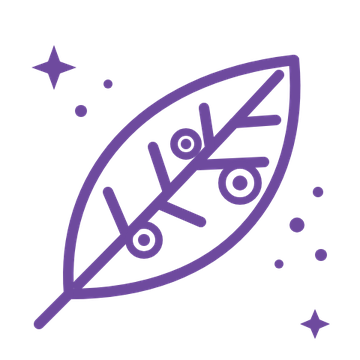
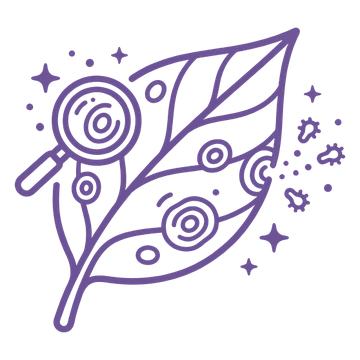
AeonScout: íconos nuevos (dibujos de Flow) para AeonScout, Plagas, Malezas y Enfermedades
Claude-Session: https://claude.ai/code/session_01AQtHHbNtiHMaVCGrhptX3t

diff --git a/tools/make_scout_from_art.py b/tools/make_scout_from_art.py
@@ -1,0 +1,52 @@
+"""
+tools/make_scout_from_art.py
+============================
+Íconos de AeonScout a partir de los dibujos a línea hechos con Flow (fondo blanco):
+assets/src/flow/{aeonscout,plagas,malezas,enfermedades}.jpg.
+
+    python tools/make_scout_from_art.py
+
+El blanco pasa a transparente (bordes suaves: la transparencia sale de qué tan oscuro es
+cada punto), la tinta queda de un solo color (el del dibujo), se recorta al dibujo y se
+centra en un cuadrado de 360 px: assets/ui/scout_<nombre>.png. Las burbujas de color
+(blob_scout_*.png) las hace tools/make_scout_assets.py.
+"""
+from __future__ import annotations
+
+import os
+
+import numpy as np
+from PIL import Image
+
+ROOT = os.path.dirname(os.path.dirname(os.path.abspath(__file__)))
+SRC = os.path.join(ROOT, "assets", "src", "flow")
+UI = os.path.join(ROOT, "assets", "ui")
+SIDE, MARGIN = 360, .04
+
+
+def cutout(path: str) -> Image.Image:
+    rgb = np.asarray(Image.open(path).convert("RGB")).astype(float)
+    lum = rgb @ np.array([.299, .587, .114])
+    ink_mask = lum < np.percentile(lum, 2) + 25            # los trazos más oscuros
+    ink = np.median(rgb[ink_mask], axis=0)
+    ink_lum = float(ink @ np.array([.299, .587, .114]))
+    alpha = np.clip((250 - lum) / max(1.0, 250 - ink_lum), 0, 1)
+    out = np.zeros(rgb.shape[:2] + (4,), np.uint8)
+    out[..., :3] = ink.astype(np.uint8)
+    out[..., 3] = (alpha * 255).astype(np.uint8)
+    im = Image.fromarray(out, "RGBA")
+    box = im.getchannel("A").point(lambda v: 255 if v > 10 else 0).getbbox()
+    im = im.crop(box)
+    side = int(max(im.size) / (1 - 2 * MARGIN))
+    sq = Image.new("RGBA", (side, side), (0, 0, 0, 0))
+    sq.alpha_composite(im, ((side - im.width) // 2, (side - im.height) // 2))
+    return sq.resize((SIDE, SIDE), Image.LANCZOS)
+
+
+def main():
+    for name in ("aeonscout", "plagas", "malezas", "enfermedades"):
+        cutout(os.path.join(SRC, name + ".jpg")).save(os.path.join(UI, f"scout_{name}.png"))
+
+
+if __name__ == "__main__":
+    main()

diff --git a/tools/make_scout_assets.py b/tools/make_scout_assets.py
@@ -1,8 +1,9 @@
 """
 tools/make_scout_assets.py
 ==========================
-Íconos de AeonScout (assets/src/AeonScout.svg, Plagas.svg, Malezas.svg, Enfermedades.svg)
-y una burbuja suave del color de cada uno (como las del inicio):
+Burbuja suave del color de cada botón de AeonScout (como las del inicio). Los íconos
+salen ahora de los dibujos de Flow (tools/make_scout_from_art.py); los SVG de assets/src
+quedan como respaldo (con --svg se vuelven a usar):
 
     node tools/render_svgs.js 480 /tmp/scout assets/src/AeonScout.svg assets/src/Plagas.svg \\
         assets/src/Malezas.svg assets/src/Enfermedades.svg
@@ -38,13 +39,13 @@ def bubble(rgb) -> Image.Image:
     return out
 
 
-def main(src: str):
+def main(src: str | None, use_svg: bool = False):
     for key, name in NAMES.items():
-        icon = Image.open(os.path.join(src, name + ".png")).convert("RGBA")
-        icon.crop(icon.getchannel("A").getbbox())
-        icon.resize((360, 360), Image.LANCZOS).save(os.path.join(UI, f"scout_{key}.png"))
+        if use_svg and src:
+            icon = Image.open(os.path.join(src, name + ".png")).convert("RGBA")
+            icon.resize((360, 360), Image.LANCZOS).save(os.path.join(UI, f"scout_{key}.png"))
         bubble(TINTS[key]).save(os.path.join(UI, f"blob_scout_{key}.png"))
 
 
 if __name__ == "__main__":
-    main(sys.argv[1])
+    main(sys.argv[1] if len(sys.argv) > 1 else None, "--svg" in sys.argv)
